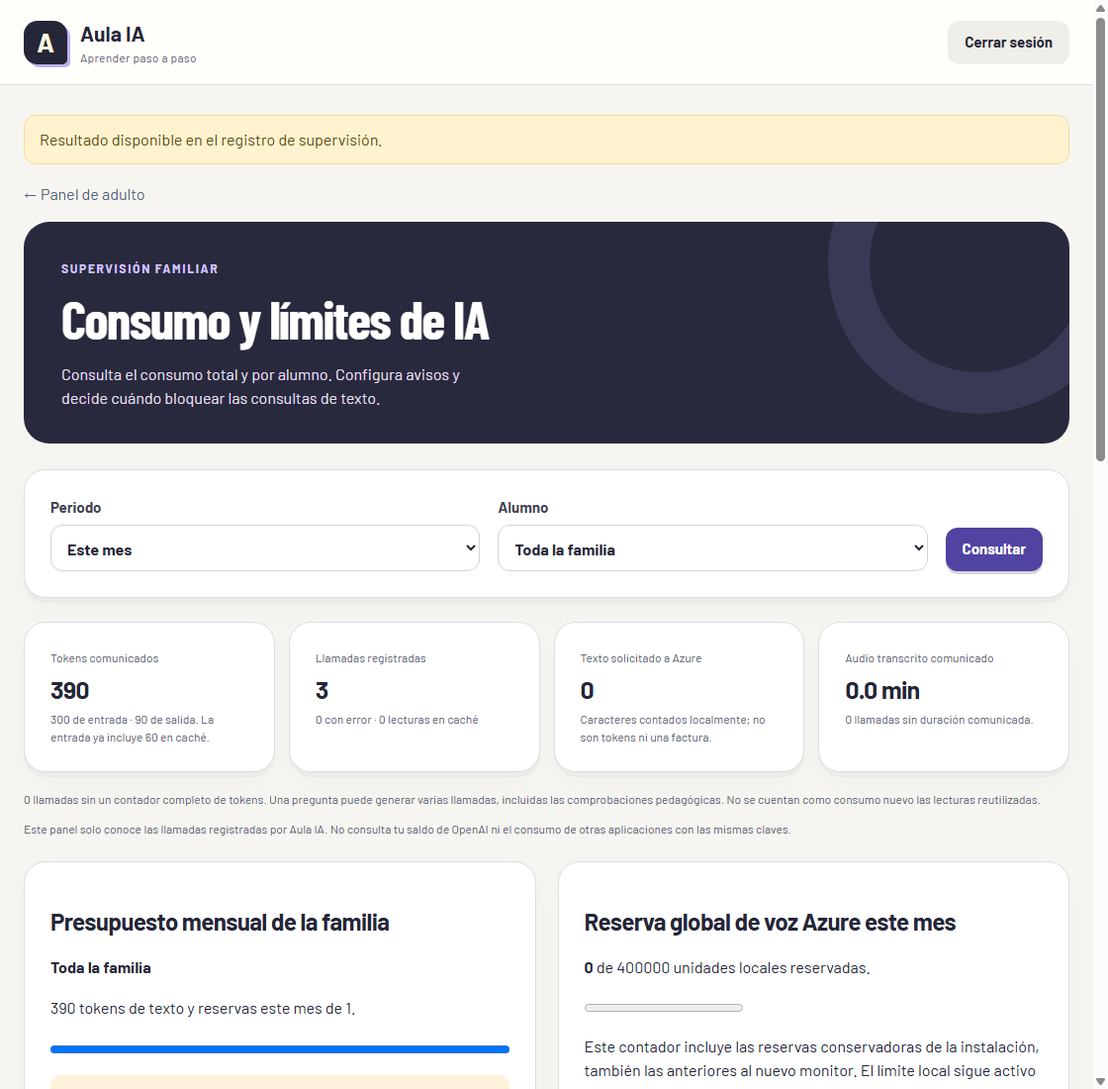
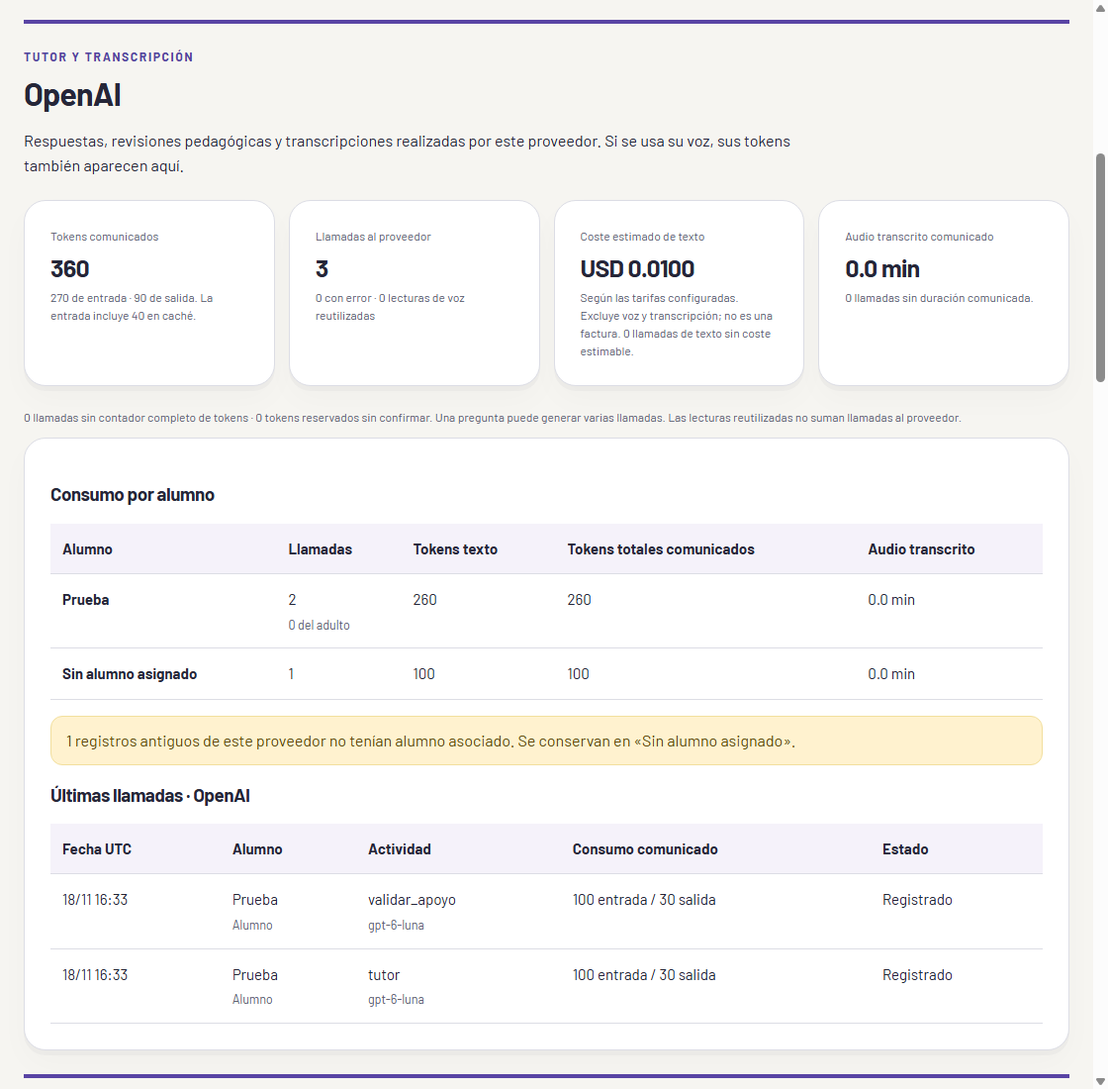
Aula IA v1.2.1: separar consumo OpenAI y Azure

diff --git a/app/templates/consumption.html b/app/templates/consumption.html
@@ -19,62 +19,78 @@
     <button class="button button-secondary">Guardar presupuesto</button>
   </form>
 {% endmacro %}
+{% macro calls_table(calls, provider_label) %}
+  <h3>Últimas llamadas · {{ provider_label }}</h3>
+  <div class="usage-table-wrap"><table class="usage-table"><thead><tr><th>Fecha UTC</th><th>Alumno</th><th>Actividad</th><th>Consumo comunicado</th><th>Estado</th></tr></thead><tbody>
+  {% for e in calls %}<tr><td>{{ e.created_at.strftime('%d/%m %H:%M') }}</td><td>{% for p in profiles if p.id == e.profile_id %}{{ p.name }}{% else %}Sin asignar{% endfor %}<small>{{ 'Adulto' if e.actor == 'adult' else 'Alumno' if e.actor == 'student' else 'Sin identificar' }}</small></td><td>{{ e.task }}<small>{{ e.model }}</small></td><td>{% if e.kind == 'voice_cache' %}Caché, sin nueva llamada{% elif e.provider == 'azure' %}{{ e.text_characters }} caracteres de texto{% else %}{{ e.input_tokens if e.input_tokens is not none else '—' }} entrada / {{ e.output_tokens if e.output_tokens is not none else '—' }} salida{% if e.kind == 'transcription' %}<small>{{ '%.1f s'|format(e.audio_seconds) if e.audio_seconds is not none else 'Duración desconocida' }}</small>{% endif %}{% endif %}</td><td>{{ {'ok':'Registrado','pending':'Pendiente','error':'Error'}.get(e.status,e.status) }}{% if e.reserved_tokens %}<small>Reserva: {{ e.reserved_tokens }}</small>{% endif %}</td></tr>{% else %}<tr><td colspan="5">Sin llamadas registradas en este periodo.</td></tr>{% endfor %}
+  </tbody></table></div>
+{% endmacro %}
+{% macro students_table(provider, azure=false) %}
+  <h3>Consumo por alumno</h3>
+  <div class="usage-table-wrap"><table class="usage-table"><thead><tr><th>Alumno</th><th>Llamadas</th>{% if azure %}<th>Texto solicitado</th><th>Lecturas reutilizadas</th>{% else %}<th>Tokens texto</th><th>Tokens totales comunicados</th><th>Audio transcrito</th>{% endif %}</tr></thead><tbody>
+  {% for p in profiles if not report.profile_filter or p.id == report.profile_filter %}{% set row=provider.rows.get(p.id) %}
+    <tr><th scope="row">{{ p.name }}</th><td>{{ row.calls if row else 0 }}{% if row %}<small>{{ row.adult_calls }} del adulto</small>{% endif %}</td>{% if azure %}<td>{{ row.azure_chars if row else 0 }} caracteres</td><td>{{ row.cache if row else 0 }}</td>{% else %}<td>{{ row.text_tokens if row else 0 }}</td><td>{{ row.input + row.output if row else 0 }}</td><td>{{ '%.1f'|format(row.seconds / 60 if row else 0) }} min</td>{% endif %}</tr>
+  {% else %}<tr><td colspan="5">Todavía no hay perfiles.</td></tr>{% endfor %}
+  {% if provider.rows.get(none) %}{% set row=provider.rows[none] %}<tr><th scope="row">Sin alumno asignado</th><td>{{ row.calls }}</td>{% if azure %}<td>{{ row.azure_chars }} caracteres</td><td>{{ row.cache }}</td>{% else %}<td>{{ row.text_tokens }}</td><td>{{ row.input + row.output }}</td><td>{{ '%.1f'|format(row.seconds / 60) }} min</td>{% endif %}</tr>{% endif %}
+  </tbody></table></div>
+  {% if provider.legacy_count %}<p class="notice">{{ provider.legacy_count }} registros antiguos de este proveedor no tenían alumno asociado. Se conservan en «Sin alumno asignado».</p>{% endif %}
+{% endmacro %}
 {% block content %}
 <a class="back-link" href="/">← Panel de adulto</a>
-<header class="hero admin-hero"><div><span class="eyebrow">Supervisión familiar</span><h1>Consumo y límites de IA</h1><p>Consulta el consumo total y por alumno. Configura avisos y decide cuándo bloquear las consultas de texto.</p></div></header>
+<header class="hero admin-hero"><div><span class="eyebrow">Supervisión familiar</span><h1>Consumo y límites de IA</h1><p>OpenAI y Azure por separado: consulta las llamadas y el consumo de cada servicio, de toda la familia o de un alumno.</p></div></header>
 <form method="get" action="/consumo" class="card usage-filters">
   <label>Periodo<select name="periodo">{% for value,label in [('mes','Este mes'),('hoy','Hoy (UTC)'),('semana','Últimos 7 días'),('todo','Todo el histórico')] %}<option value="{{ value }}"{% if value == report.period %} selected{% endif %}>{{ label }}</option>{% endfor %}</select></label>
   <label>Alumno<select name="perfil"><option value="0">Toda la familia</option>{% for p in profiles %}<option value="{{ p.id }}"{% if p.id == report.profile_filter %} selected{% endif %}>{{ p.name }}</option>{% endfor %}</select></label>
   <button class="button button-primary">Consultar</button>
 </form>
-<div class="stats-grid usage-stats">
-  <section class="card stat"><span>Tokens comunicados</span><strong>{{ report.totals.input + report.totals.output }}</strong><small>{{ report.totals.input }} de entrada · {{ report.totals.output }} de salida. La entrada ya incluye {{ report.totals.cached_tokens }} en caché.</small></section>
-  <section class="card stat"><span>Llamadas registradas</span><strong>{{ report.totals.calls }}</strong><small>{{ report.totals.errors }} con error · {{ report.totals.cache }} lecturas en caché</small></section>
-  <section class="card stat"><span>Texto solicitado a Azure</span><strong>{{ report.totals.azure_chars }}</strong><small>Caracteres contados localmente; no son tokens ni una factura.</small></section>
-  <section class="card stat"><span>Audio transcrito comunicado</span><strong>{{ "%.1f"|format(report.totals.seconds / 60) }} min</strong><small>{{ report.totals.audio_unknown }} llamadas sin duración comunicada.</small></section>
-</div>
-<p class="source-ref">{{ report.totals.unknown }} llamadas sin un contador completo de tokens. Una pregunta puede generar varias llamadas, incluidas las comprobaciones pedagógicas. No se cuentan como consumo nuevo las lecturas reutilizadas.</p>
-<p class="source-ref">Este panel solo conoce las llamadas registradas por Aula IA. No consulta tu saldo de OpenAI ni el consumo de otras aplicaciones con las mismas claves.</p>
-<div class="two-column section-block">
-  <section class="card">
-    <h2>Presupuesto mensual de la familia</h2>
-    {{ budget_meter(report.monthly[0], report.policies[0], 'Toda la familia') }}
-    {{ budget_form(0, 'Tokens de texto al mes (0 = sin presupuesto)', report.policies[0]) }}
-    <p class="source-ref">Los presupuestos usan meses UTC y se comparten entre las actividades de los alumnos y las del adulto. Se reserva un margen conservador antes de llamar al proveedor; el bloqueo puede ocurrir antes de agotar los tokens medidos. Las reservas sin confirmar también ocupan presupuesto.</p>
-  </section>
-  <section class="card">
-    <h2>Reserva global de voz Azure este mes</h2>
+<nav class="usage-provider-nav" aria-label="Consumo por proveedor"><a href="#consumo-openai">OpenAI · tutor y transcripción</a><a href="#consumo-azure">Azure · voces</a><a href="#limites-texto">Límites de texto</a></nav>
+<p class="source-ref">Los filtros se aplican a cada proveedor por separado. Este panel registra el uso de Aula IA; no consulta el saldo ni el consumo externo de tus cuentas.</p>
+{% for name, provider in report.providers.items() if name != 'azure' %}
+<section id="consumo-{{ name }}" class="usage-provider section-block" data-usage-provider="{{ name }}">
+  <header class="usage-provider-heading"><span class="eyebrow">{{ 'Tutor y transcripción' if name == 'openai' else 'Otro proveedor de texto' }}</span><h2>{{ 'OpenAI' if name == 'openai' else name }}</h2><p>Respuestas, revisiones pedagógicas y transcripciones realizadas por este proveedor. Si se usa su voz, sus tokens también aparecen aquí.</p></header>
+  <div class="stats-grid usage-stats">
+    <section class="card stat"><span>Tokens comunicados</span><strong>{{ provider.totals.input + provider.totals.output }}</strong><small>{{ provider.totals.input }} de entrada · {{ provider.totals.output }} de salida. La entrada incluye {{ provider.totals.cached_tokens }} en caché.</small></section>
+    <section class="card stat"><span>Llamadas al proveedor</span><strong>{{ provider.totals.calls }}</strong><small>{{ provider.totals.errors }} con error · {{ provider.totals.cache }} lecturas de voz reutilizadas</small></section>
+    <section class="card stat"><span>Coste estimado de texto</span><strong>USD {{ '%.4f'|format(provider.totals.text_cost) }}</strong><small>Según las tarifas configuradas. Excluye voz y transcripción; no es una factura. {{ provider.totals.cost_unknown }} llamadas de texto sin coste estimable.</small></section>
+    <section class="card stat"><span>Audio transcrito comunicado</span><strong>{{ '%.1f'|format(provider.totals.seconds / 60) }} min</strong><small>{{ provider.totals.audio_unknown }} llamadas sin duración comunicada.</small></section>
+  </div>
+  <p class="source-ref">{{ provider.totals.unknown }} llamadas sin contador completo de tokens · {{ provider.totals.reserved }} tokens reservados sin confirmar. Una pregunta puede generar varias llamadas. Las lecturas reutilizadas no suman llamadas al proveedor.</p>
+  <div class="card">{{ students_table(provider) }}{{ calls_table(provider.recent, 'OpenAI' if name == 'openai' else name) }}</div>
+</section>
+{% endfor %}
+{% set azure=report.providers.azure %}
+<section id="consumo-azure" class="usage-provider usage-provider-azure section-block" data-usage-provider="azure">
+  <header class="usage-provider-heading"><span class="eyebrow">Voces de los personajes</span><h2>Azure Speech</h2><p>Lectura de las respuestas del tutor. Su consumo se muestra en caracteres y reservas locales.</p></header>
+  <div class="stats-grid usage-stats">
+    <section class="card stat"><span>Texto solicitado a Azure</span><strong>{{ azure.totals.azure_chars }}</strong><small>Caracteres de texto del periodo seleccionado. No son tokens ni una factura.</small></section>
+    <section class="card stat"><span>Llamadas a Azure</span><strong>{{ azure.totals.calls }}</strong><small>{{ azure.totals.errors }} con error</small></section>
+    <section class="card stat"><span>Lecturas reutilizadas</span><strong>{{ azure.totals.cache }}</strong><small>Sin generar otra voz ni hacer otra llamada a Azure.</small></section>
+  </div>
+  <section class="card section-block"><h3>Límite independiente de Azure · toda la familia este mes</h3>
     <p><strong>{{ azure_reserved }}</strong> de 400000 unidades locales reservadas.</p>
     <progress value="{{ [azure_reserved,400000]|min }}" max="400000" aria-label="Reserva local Azure"></progress>
     {% if azure_reserved >= 400000 %}<p class="usage-alert">Límite local de Azure alcanzado. Se bloquean nuevas generaciones; los clips existentes pueden reutilizarse.</p>{% elif azure_reserved >= 320000 %}<p class="usage-alert">La reserva local de Azure ha superado el 80 %.</p>{% endif %}
-    <p>Este contador incluye las reservas conservadoras de la instalación, también las anteriores al nuevo monitor. El límite local sigue activo aunque el presupuesto de tokens esté en modo aviso.</p>
-    <p class="source-ref">No muestra el saldo de Azure ni certifica tu nivel F0. Otros usos de la misma clave pueden consumir cuota fuera de Aula IA. Consulta el portal del proveedor para la facturación real.</p>
-    <p>Coste estimado de texto en el periodo: <strong>USD {{ "%.4f"|format(report.totals.text_cost) }}</strong>.</p>
-    <p class="source-ref">Calculado con las tarifas configuradas cuando se hizo cada llamada. No incluye voz ni transcripción y no equivale a una factura.</p>
-    {% if report.totals.cost_unknown %}<p class="source-ref">Estimación parcial: {{ report.totals.cost_unknown }} llamadas de texto sin coste estimable.</p>{% endif %}
+    <p>Este límite de voz sigue activo de forma independiente al presupuesto de texto. Incluye las reservas conservadoras anteriores al monitor y siempre muestra el mes actual para toda la familia.</p>
+    <p class="source-ref">Son reservas locales, no caracteres facturados ni saldo de Azure. No certifican el nivel F0 ni incluyen usos externos de la misma clave. Consulta el portal de Microsoft para la facturación real.</p>
   </section>
-</div>
-<section class="card section-block">
-  <h2>Consumo por alumno</h2>
-  <p>Se atribuyen al perfil las llamadas del alumno y las que hace el adulto para él. Los presupuestos y las peticiones de hoy se muestran aunque filtres otro periodo.</p>
-  <div class="usage-table-wrap"><table class="usage-table"><thead><tr><th>Alumno</th><th>Tokens texto</th><th>Tokens totales comunicados</th><th>Texto Azure</th><th>Peticiones de IA hoy</th></tr></thead><tbody>
-  {% for p in profiles if not report.profile_filter or p.id == report.profile_filter %}{% set row=by_id.get(p.id) %}
-    <tr><th scope="row">{{ p.name }}{% if row %}<small>{{ row.calls }} llamadas · {{ row.adult_calls }} del adulto</small>{% endif %}</th><td>{{ row.text_tokens if row else 0 }}</td><td>{{ row.input + row.output if row else 0 }}</td><td>{{ row.azure_chars if row else 0 }} caracteres</td><td>{{ daily.get(p.id,0) }} / {{ daily_limits.get(p.id,default_daily_limit) }}</td></tr>
-  {% else %}<tr><td colspan="5">Todavía no hay perfiles.</td></tr>{% endfor %}
-  {% if by_id.get(none) %}{% set row=by_id[none] %}<tr><th scope="row">Sin alumno asignado</th><td>{{ row.text_tokens }}</td><td>{{ row.input + row.output }}</td><td>{{ row.azure_chars }}</td><td>—</td></tr>{% endif %}
-  </tbody></table></div>
-  {% if report.legacy_count %}<p class="notice">{{ report.legacy_count }} registros antiguos no tenían alumno asociado. Se conservan en el total y en «Sin alumno asignado»; no se ha inventado un reparto.</p>{% endif %}
+  <div class="card">{{ students_table(azure, true) }}{{ calls_table(azure.recent, 'Azure') }}</div>
 </section>
-<section class="section-block"><h2>Presupuestos de cada alumno</h2><div class="two-column">
-{% for p in profiles if not report.profile_filter or p.id == report.profile_filter %}<details class="card"><summary><strong>{{ p.name }}</strong> · presupuesto de texto</summary>
-  {{ budget_meter(report.monthly.get(p.id,0), report.policies[p.id], p.name) }}
-  {{ budget_form(p.id, 'Tokens de texto al mes (0 = sin presupuesto)', report.policies[p.id]) }}
-  <p class="source-ref">Además se aplica el presupuesto familiar y el límite diario de peticiones que ya tenga este alumno.</p>
-</details>{% endfor %}</div></section>
-<section class="card section-block"><h2>Últimas llamadas del periodo</h2>
-  <p>{{ report.totals.reserved }} tokens reservados sin confirmar en los registros seleccionados.</p>
-  <div class="usage-table-wrap"><table class="usage-table"><thead><tr><th>Fecha UTC</th><th>Alumno</th><th>Proveedor y actividad</th><th>Consumo comunicado</th><th>Estado</th></tr></thead><tbody>
-  {% for e in report.recent %}<tr><td>{{ e.created_at.strftime('%d/%m %H:%M') }}</td><td>{% for p in profiles if p.id == e.profile_id %}{{ p.name }}{% else %}Sin asignar{% endfor %}<small>{{ 'Adulto' if e.actor == 'adult' else 'Alumno' if e.actor == 'student' else 'Sin identificar' }}</small></td><td>{{ e.provider }} · {{ e.task }}<small>{{ e.model }}</small></td><td>{% if e.kind == 'voice_cache' %}Caché, sin nueva llamada{% elif e.provider == 'azure' %}{{ e.text_characters }} caracteres de texto{% else %}{{ e.input_tokens if e.input_tokens is not none else '—' }} entrada / {{ e.output_tokens if e.output_tokens is not none else '—' }} salida{% endif %}</td><td>{{ {'ok':'Registrado','pending':'Pendiente','error':'Error'}.get(e.status,e.status) }}{% if e.reserved_tokens %}<small>Reserva: {{ e.reserved_tokens }}</small>{% endif %}</td></tr>{% else %}<tr><td colspan="5">Sin llamadas registradas en este periodo.</td></tr>{% endfor %}
+<section id="limites-texto" class="card section-block">
+  <h2>Presupuestos de texto · tutor</h2>
+  <p>Estos presupuestos se aplican al texto del proveedor del tutor, normalmente OpenAI. No incluyen voz Azure, síntesis de voz OpenAI ni transcripciones. Azure mantiene su límite en la sección anterior.</p>
+  {{ budget_meter(report.monthly[0], report.policies[0], 'Toda la familia · texto') }}
+  {{ budget_form(0, 'Tokens de texto al mes (0 = sin presupuesto)', report.policies[0]) }}
+  <p class="source-ref">Los presupuestos usan meses UTC y se comparten entre las actividades del alumno y las del adulto para él. Se reserva un margen antes de llamar al proveedor: el bloqueo puede ocurrir antes de agotar los tokens medidos. Las reservas sin confirmar también ocupan presupuesto.</p>
+  <h3>Presupuestos de cada alumno</h3><div class="two-column">
+  {% for p in profiles if not report.profile_filter or p.id == report.profile_filter %}<details class="card"><summary><strong>{{ p.name }}</strong> · presupuesto de texto</summary>
+    {{ budget_meter(report.monthly.get(p.id,0), report.policies[p.id], p.name) }}
+    {{ budget_form(p.id, 'Tokens de texto al mes (0 = sin presupuesto)', report.policies[p.id]) }}
+    <p class="source-ref">Además se aplica el presupuesto familiar y el límite diario de peticiones de este alumno.</p>
+  </details>{% endfor %}</div>
+</section>
+<section class="card section-block"><h2>Peticiones educativas de hoy</h2><p>Cuota diaria del alumno, por horario de Madrid. Es un control pedagógico independiente del consumo de cada proveedor.</p>
+  <div class="usage-table-wrap"><table class="usage-table"><thead><tr><th>Alumno</th><th>Peticiones de IA hoy</th><th>Límite diario</th></tr></thead><tbody>
+  {% for p in profiles if not report.profile_filter or p.id == report.profile_filter %}<tr><th scope="row">{{ p.name }}</th><td>{{ daily.get(p.id,0) }}</td><td>{{ daily_limits.get(p.id,default_daily_limit) }}</td></tr>{% else %}<tr><td colspan="3">Todavía no hay perfiles.</td></tr>{% endfor %}
   </tbody></table></div>
 </section>
 {% endblock %}

diff --git a/app/static/app-design.css b/app/static/app-design.css
@@ -41,3 +41,4 @@ label{font-size:15px;color:#414252}input,select,textarea{font-size:16px;border-c
 .admin-voice-preview{margin-bottom:24px}.admin-voice-preview>summary{cursor:pointer;line-height:1.6}.admin-voice-preview audio{width:100%;max-width:500px}.admin-voice-preview .study-actions{display:flex;flex-wrap:wrap;gap:10px}
 .usage-filters{display:flex;flex-wrap:wrap;gap:18px;align-items:end;margin-bottom:24px}.usage-filters label{flex:1 1 200px}.usage-stats small{line-height:1.5}.usage-budget progress,#probar-voces audio{width:100%}.usage-alert{color:#8c331e;background:#fff1dc;padding:12px;border-radius:10px;font-weight:700}.usage-limit-form{margin:20px 0}.usage-checkbox{display:flex;flex-direction:row;align-items:start;gap:9px;font-weight:400}.usage-checkbox input{width:20px;height:20px;flex:none;margin-top:2px}.usage-table-wrap{max-width:100%;overflow:auto}.usage-table{border-collapse:collapse;width:100%;font-size:15px;min-width:650px}.usage-table td,.usage-table th{text-align:left;padding:14px 12px;border-bottom:1px solid var(--line);vertical-align:top}.usage-table th{font-weight:700}.usage-table small{display:block;color:var(--muted);margin-top:5px;max-width:240px;overflow-wrap:anywhere}.usage-table thead{background:#f5f2fa}.usage-budget{margin:20px 0}.usage-budget p{line-height:1.6}.usage-filters+.usage-stats{margin-top:22px}
 @media(prefers-reduced-motion:reduce){.button,.student-task{transition:none}.button:hover{transform:none}}
+.usage-provider-nav{display:flex;flex-wrap:wrap;gap:12px;margin:20px 0}.usage-provider-nav a{padding:12px 16px;border:1px solid var(--line);border-radius:12px;background:#fff;font-weight:700}.usage-provider{border-top:4px solid #5944a4;padding-top:20px;scroll-margin-top:20px}.usage-provider-azure{border-color:#147b97}.usage-provider-heading h2{font-size:32px;margin:8px 0}.usage-provider-heading p{max-width:800px;line-height:1.6}.usage-provider .usage-stats{margin:22px 0}.usage-provider-summary{border-left:4px solid #5944a4;padding-left:16px}.usage-provider-summary[data-usage-provider=azure]{border-color:#147b97}.usage-provider-summary h3{margin-top:12px}

diff --git a/app/templates/index.html b/app/templates/index.html
@@ -144,7 +144,8 @@
 </section>
 <section class="card section-block usage-details">
   <div class="section-heading"><h2>Consumo de IA este mes</h2><a href="/consumo">Ver por alumno y configurar límites →</a></div>
-  <p>{{ consumption_summary.totals.calls }} llamadas registradas · {{ consumption_summary.totals.input + consumption_summary.totals.output }} tokens comunicados · {{ consumption_summary.totals.cache }} lecturas reutilizadas.</p>
+  <div class="two-column">{% for name, service in consumption_summary.providers.items() %}<div class="usage-provider-summary" data-usage-provider="{{ name }}"><h3>{{ 'Azure Speech' if name == 'azure' else 'OpenAI' if name == 'openai' else name }}</h3>
+  <p>{{ service.totals.calls }} llamadas · {% if name == 'azure' %}{{ service.totals.azure_chars }} caracteres de texto{% else %}{{ service.totals.input + service.totals.output }} tokens comunicados{% endif %} · {{ service.totals.cache }} lecturas reutilizadas.</p></div>{% endfor %}</div>
   {% set budget = consumption_summary.policies.get(0) %}
   {% if budget and budget.limit and consumption_summary.monthly[0] >= budget.limit * 0.8 %}<p class="notice" role="status">El consumo de texto o sus reservas se acercan al presupuesto mensual de la familia. {% if budget.block %}El bloqueo está activado.{% else %}Solo se muestran avisos.{% endif %} <a href="/consumo">Revisar consumo</a>.</p>{% endif %}
   <p class="source-ref">La voz Azure se mide en caracteres y reservas locales. El detalle distingue datos medidos, estimaciones e histórico sin alumno.</p>

diff --git a/app/templates/base.html b/app/templates/base.html
@@ -6,7 +6,7 @@
   <title>{{ title or app_name }}</title>
   <link rel="stylesheet" href="/static/app.css">
   {% block page_styles %}{% endblock %}
-  <link rel="stylesheet" href="/static/app-design.css?v=4">
+  <link rel="stylesheet" href="/static/app-design.css?v=5">
   <script defer src="/static/app.js?v=4"></script>
 </head>
 <body{% block body_attributes %}{% endblock %}>

diff --git a/app/accounting.py b/app/accounting.py
@@ -182,47 +182,56 @@ def report(period, profile_filter=0, profile_ids=()):
         legacy = [] if profile_filter else _unassigned_legacy(db, since)
         policies = {p.scope_id: {"limit": p.monthly_tokens, "block": p.block} for p in db.scalars(select(Budget))}
         rows = {}
-        def row(key):
-            return rows.setdefault(key, {"profile_id": key, "calls": 0, "input": 0, "output": 0, "text_tokens": 0,
+        provider_rows = {"openai": {}, "azure": {}}
+        def row(key, store):
+            return store.setdefault(key, {"profile_id": key, "calls": 0, "input": 0, "output": 0, "text_tokens": 0,
                 "unknown": 0, "azure_chars": 0, "azure_units": 0, "seconds": 0.0, "audio_unknown": 0,
                 "cache": 0, "cached_tokens": 0, "errors": 0, "reserved": 0, "text_cost": 0.0, "cost_unknown": 0, "adult_calls": 0})
         for e in events:
-            r = row(e.profile_id)
-            if e.kind == "voice_cache":
-                r["cache"] += 1
-                continue
-            r["calls"] += 1
-            r["adult_calls"] += int(e.actor == "adult")
-            r["errors"] += int(e.status == "error")
-            r["input"] += e.input_tokens or 0
-            r["output"] += e.output_tokens or 0
-            r["cached_tokens"] += e.cached_tokens or 0
-            r["reserved"] += e.reserved_tokens
-            if e.kind == "text":
-                r["text_tokens"] += (e.input_tokens or 0) + (e.output_tokens or 0)
-                r["text_cost"] += e.cost_usd or 0
-                r["cost_unknown"] += int(e.cost_usd is None)
-            if (e.input_tokens is None or e.output_tokens is None) and e.provider != "azure":
-                r["unknown"] += 1
-            if e.kind == "azure_voice":
-                r["azure_chars"] += e.text_characters
-                r["azure_units"] += e.azure_units
-            if e.kind == "transcription":
-                if e.audio_seconds is None:
-                    r["audio_unknown"] += 1
-                else:
-                    r["seconds"] += e.audio_seconds
+            for r in (row(e.profile_id, rows), row(e.profile_id, provider_rows.setdefault(e.provider, {}))):
+                if e.kind == "voice_cache":
+                    r["cache"] += 1
+                    continue
+                r["calls"] += 1
+                r["adult_calls"] += int(e.actor == "adult")
+                r["errors"] += int(e.status == "error")
+                r["input"] += e.input_tokens or 0
+                r["output"] += e.output_tokens or 0
+                r["cached_tokens"] += e.cached_tokens or 0
+                r["reserved"] += e.reserved_tokens
+                if e.kind == "text":
+                    r["text_tokens"] += (e.input_tokens or 0) + (e.output_tokens or 0)
+                    r["text_cost"] += e.cost_usd or 0
+                    r["cost_unknown"] += int(e.cost_usd is None)
+                if (e.input_tokens is None or e.output_tokens is None) and e.provider != "azure":
+                    r["unknown"] += 1
+                if e.kind == "azure_voice":
+                    r["azure_chars"] += e.text_characters
+                    r["azure_units"] += e.azure_units
+                if e.kind == "transcription":
+                    if e.audio_seconds is None:
+                        r["audio_unknown"] += 1
+                    else:
+                        r["seconds"] += e.audio_seconds
         for e in legacy:
-            r = row(None)
-            r["calls"] += 1
-            r["input"] += e.input_tokens
-            r["output"] += e.output_tokens
-            r["text_tokens"] += e.input_tokens + e.output_tokens
-            r["text_cost"] += e.cost_usd
-        totals = {k: sum(r[k] for r in rows.values()) for k in ("calls", "input", "output", "text_tokens", "unknown", "azure_chars", "seconds", "audio_unknown", "cache", "cached_tokens", "errors", "reserved", "text_cost", "cost_unknown")}
+            for r in (row(None, rows), row(None, provider_rows.setdefault(e.provider, {}))):
+                r["calls"] += 1
+                r["input"] += e.input_tokens
+                r["output"] += e.output_tokens
+                r["text_tokens"] += e.input_tokens + e.output_tokens
+                r["text_cost"] += e.cost_usd
+        def totalize(group):
+            return {k: sum(r[k] for r in group.values()) for k in (
+                "calls", "input", "output", "text_tokens", "unknown", "azure_chars", "seconds", "audio_unknown",
+                "cache", "cached_tokens", "errors", "reserved", "text_cost", "cost_unknown")}
+        totals = totalize(rows)
+        providers = {name: {"totals": totalize(group), "rows": group,
+                           "recent": [e for e in events if e.provider == name][:25],
+                           "legacy_count": sum(e.provider == name for e in legacy)}
+                     for name, group in provider_rows.items()}
         scopes = set(rows) - {None}
         scopes |= set(policies) - {0}
         scopes |= set(profile_ids)
         monthly = {key: spent(db, key or None) for key in {0, *scopes}}
-        return {"totals": totals, "rows": list(rows.values()), "policies": policies, "monthly": monthly,
+        return {"totals": totals, "providers": providers, "rows": list(rows.values()), "policies": policies, "monthly": monthly,
                 "legacy_count": len(legacy), "recent": events[:25], "period": period, "profile_filter": profile_filter}

diff --git a/tests/consumption_regression.py b/tests/consumption_regression.py
@@ -37,6 +37,59 @@ class ConsumptionTests(unittest.TestCase):
             self.assertTrue(all(r.cached_tokens==20 for r in rows))
         self.assertEqual(accounting.context.get(),(None,'unknown'))
         self.assertIn('max_completion_tokens',json.loads(self.calls[0].content))
+    def test_services_keep_separate_totals_history_and_profile_filters(self):
+        with self.mock(self.provider):self.ask()
+        token=accounting.context.set((self.pid,'student'))
+        try:
+            event=accounting.begin('azure_voice','azure','es-ES-ElviraNeural','sintetizar',text_characters=17,azure_units=100)
+            accounting.finish(event,audio_seconds=2)
+            accounting.cache_hit('azure','es-ES-ElviraNeural')
+            event=accounting.begin('azure_voice','azure','es-ES-ElviraNeural','sintetizar')
+            accounting.fail(event)
+        finally:accounting.context.reset(token)
+        with main.db_session() as db:
+            db.add_all([main.AIUsage(provider='openai',model='old',task='old',input_tokens=70,output_tokens=30,cost_usd=0.01,elapsed_ms=10),
+                        main.AIUsage(provider='ollama',model='local',task='old',input_tokens=800,output_tokens=100,cost_usd=0,elapsed_ms=10)])
+            db.commit()
+        data=accounting.report('mes');services=data['providers']
+        self.assertEqual(services['openai']['totals']['text_tokens'],360)
+        self.assertEqual(services['openai']['totals']['calls'],3)
+        self.assertEqual(services['openai']['totals']['cache'],0)
+        self.assertEqual(services['openai']['totals']['azure_chars'],0)
+        self.assertEqual(services['azure']['totals']['calls'],2)
+        self.assertEqual(services['azure']['totals']['errors'],1)
+        self.assertEqual(services['azure']['totals']['cache'],1)
+        self.assertEqual(services['azure']['totals']['azure_chars'],17)
+        self.assertEqual(services['azure']['totals']['text_tokens'],0)
+        self.assertEqual(services['azure']['totals']['text_cost'],0)
+        self.assertEqual(services['ollama']['totals']['text_tokens'],900)
+        self.assertEqual(services['openai']['legacy_count'],1)
+        for name,service in services.items():self.assertTrue(all(e.provider==name for e in service['recent']))
+        pupil=accounting.report('mes',self.pid)['providers']
+        self.assertEqual(pupil['openai']['totals']['text_tokens'],260)
+        self.assertNotIn('ollama',pupil)
+        self.assertEqual(pupil['azure']['rows'][self.pid]['azure_chars'],17)
+        page=self.admin.get('/consumo').text
+        azure=page.split('id="consumo-azure"',1)[1].split('id="limites-texto"',1)[0]
+        self.assertNotIn('Coste estimado de texto',azure)
+        self.assertNotIn('Tokens comunicados',azure)
+        self.assertIn('Últimas llamadas · Azure',azure)
+        self.assertIn('Últimas llamadas · OpenAI',page)
+        self.assertIn('id="consumo-ollama"',page)
+        dashboard=self.admin.get('/').text
+        self.assertIn('data-usage-provider="openai"',dashboard)
+        self.assertIn('data-usage-provider="azure"',dashboard)
+        if os.getenv('AULA_PREVIEW_DIR'):
+            Path(os.environ['AULA_PREVIEW_DIR'],'consumo-separado.html').write_text(page,encoding='utf-8')
+    def test_recent_history_is_limited_per_provider(self):
+        with self.mock(self.provider):self.ask()
+        with main.db_session() as db:
+            db.add_all([accounting.Consumption(profile_id=self.pid,actor='student',provider='azure',model='voice',kind='azure_voice',task='sintetizar',status='ok',text_characters=10) for _ in range(30)])
+            db.commit()
+        services=accounting.report('mes')['providers']
+        self.assertEqual(len(services['azure']['recent']),25)
+        self.assertEqual(len(services['openai']['recent']),2)
+        self.assertEqual(services['azure']['totals']['calls'],30)
     def test_global_and_per_student_blocks_happen_before_network(self):
         self.assertEqual(self.budget(1).status_code,303)
         with self.mock(self.provider):self.assertEqual(self.ask().status_code,303)

diff --git a/app/main.py b/app/main.py
@@ -2348,7 +2348,6 @@ def consumption_page(request: Request, periodo: str = "mes", perfil: int = 0) ->
         if perfil and not any(p.id == perfil for p in profiles):
             raise HTTPException(status_code=404, detail="Perfil no encontrado")
         data = accounting.report(periodo, perfil, [p.id for p in profiles])
-        by_id = {row["profile_id"]: row for row in data["rows"]}
         today = datetime.now(learning.SCHOOL_TZ).replace(hour=0, minute=0, second=0, microsecond=0).astimezone(timezone.utc)
         daily = dict(db.execute(select(StudentAudit.profile_id, func.count()).where(
             StudentAudit.created_at >= today, StudentAudit.uses_quota.is_(True)).group_by(StudentAudit.profile_id)).all())
@@ -2361,7 +2360,7 @@ def consumption_page(request: Request, periodo: str = "mes", perfil: int = 0) ->
         azure_counter = db.get(SecurityThrottle, key)
         azure_reserved = azure_counter.requests if azure_counter else 0
         return render(request, "consumption.html", {
-            "profiles": profiles, "report": data, "by_id": by_id, "daily": daily, "daily_limits": limits,
+            "profiles": profiles, "report": data, "daily": daily, "daily_limits": limits,
             "default_daily_limit": DEFAULT_DAILY_TUTOR_LIMIT, "azure_reserved": azure_reserved,
             "notice": get_notice(request),
         })

diff --git a/docs/CONSUMO_Y_LIMITES.md b/docs/CONSUMO_Y_LIMITES.md
@@ -1,10 +1,22 @@
-# Consumo y límites de IA · Aula IA 1.2.0
+# Consumo y límites de IA · Aula IA 1.2.1
 
 El adulto accede desde **Panel de adulto → Consumo y límites de IA** (`/consumo`). El alumno no tiene acceso a los datos de consumo de otros perfiles ni puede modificar presupuestos.
 
 ![Panel con datos ficticios](screenshots/consumo-adulto.png)
 
 <img src="screenshots/consumo-movil.png" alt="Panel de consumo en móvil con datos ficticios" width="320">
+
+![Sección independiente de Azure con datos ficticios](screenshots/consumo-azure.png)
+
+## Proveedores separados
+
+**OpenAI** tiene su propia sección con llamadas, tokens, coste estimado de texto, transcripciones, alumnos e histórico. Si se usa síntesis OpenAI, sus tokens comunicados se incluyen aquí. El coste de texto no estima voz ni transcripción.
+
+**Azure Speech** tiene otra sección con llamadas de síntesis, caracteres de texto, errores, lecturas reutilizadas, alumnos e histórico. Su reserva mensual y su límite aparecen exclusivamente en esta sección. No se le atribuyen los tokens ni el coste del tutor OpenAI.
+
+El resumen del panel de adulto también muestra cada proveedor por separado. Las cachés se atribuyen al proveedor que generó la voz. Cada histórico conserva hasta 25 llamadas propias, por lo que una ráfaga de Azure no oculta las últimas llamadas de OpenAI. Si hay datos de otros proveedores, como Ollama, se presentan en otra sección propia.
+
+Los filtros de fecha y alumno afectan a todas las secciones. Los presupuestos de texto y la reserva global de Azure mantienen su ámbito mensual; la cuota diaria pedagógica se presenta aparte. La separación se aplica también a los registros anteriores que ya tenían proveedor, sin modificar sus datos.
 
 ## Qué muestra
 
@@ -40,16 +52,16 @@ Referencias: [contadores y límites de tokens de OpenAI](https://developers.open
 
 ## Instalar
 
-El parche es acumulativo y conserva las credenciales y la región de Azure de `.env`. Subir `Aula_IA_parche_v1.2.0.tar.gz` a `/tmp` y ejecutar:
+El parche es acumulativo y conserva las credenciales y la región de Azure de `.env`. Subir `Aula_IA_parche_v1.2.1.tar.gz` a `/tmp` y ejecutar:
 
 ```sh
 cd /opt/proyecto-aula-ia &&
 bash scripts/backup.sh &&
-copia="backups/codigo-antes-v1.2.0-$(date +%Y%m%d-%H%M%S)" &&
+copia="backups/codigo-antes-v1.2.1-$(date +%Y%m%d-%H%M%S)" &&
 mkdir -p "$copia" &&
 cp -a app requirements.txt Dockerfile docker-compose.yml scripts "$copia/" &&
 if [ -f requirements.lock ]; then cp -a requirements.lock "$copia/"; fi &&
-tar -xzf /tmp/Aula_IA_parche_v1.2.0.tar.gz &&
+tar -xzf /tmp/Aula_IA_parche_v1.2.1.tar.gz &&
 docker compose build --pull web &&
 docker compose up -d --no-deps web &&
 docker compose ps web

diff --git a/README.md b/README.md
@@ -2,7 +2,7 @@
 
 Tutor educativo familiar que ayuda a comprender, practicar y razonar paso a paso. Adaptado a Infantil, Primaria, ESO y Bachillerato, con supervisión del adulto.
 
-**Versión actual: 1.2.0.** Proyecto en evolución; las respuestas y el OCR deben revisarse cuando existan dudas.
+**Versión actual: 1.2.1.** Proyecto en evolución; las respuestas y el OCR deben revisarse cuando existan dudas.
 
 ![Acceso a Aula IA](docs/screenshots/acceso.png)
 
@@ -27,7 +27,7 @@ El tutor actúa como apoyo: explica dudas, enseña métodos y propone práctica.
 - Revisión, bloqueo y eliminación de apuntes del alumnado.
 - Auditoría de solicitudes y límite diario de IA por alumno, incluida su pausa.
 - Historial, seguimiento y estimación de consumo del proveedor.
-- [Consumo total y por alumno](docs/CONSUMO_Y_LIMITES.md), con avisos y bloqueo configurable de presupuestos de texto.
+- [Consumo total y por alumno](docs/CONSUMO_Y_LIMITES.md), con secciones independientes de OpenAI y Azure, avisos y bloqueo configurable de presupuestos de texto.
 
 ![Panel de adulto con datos ficticios](docs/screenshots/panel-adulto.png)
 

diff --git a/CHANGELOG.md b/CHANGELOG.md
@@ -1,5 +1,11 @@
 # Cambios de Aula IA
 
+## 1.2.1 · 2026-11-18
+
+- Separación completa de OpenAI y Azure en el panel de consumo y en el resumen del adulto: llamadas, cachés, detalle por alumno e históricos propios.
+- El coste estimado de texto se muestra únicamente junto al proveedor que lo generó. Azure conserva sus caracteres, reservas y límite independiente.
+- Se conservan los registros y presupuestos existentes. Los datos de otros proveedores, si existen, mantienen su sección propia.
+
 ## 1.2.0 · 2026-11-18
 
 - Panel de adulto «Consumo y límites de IA», con filtros de periodo y alumno, totales y detalle de llamadas.
